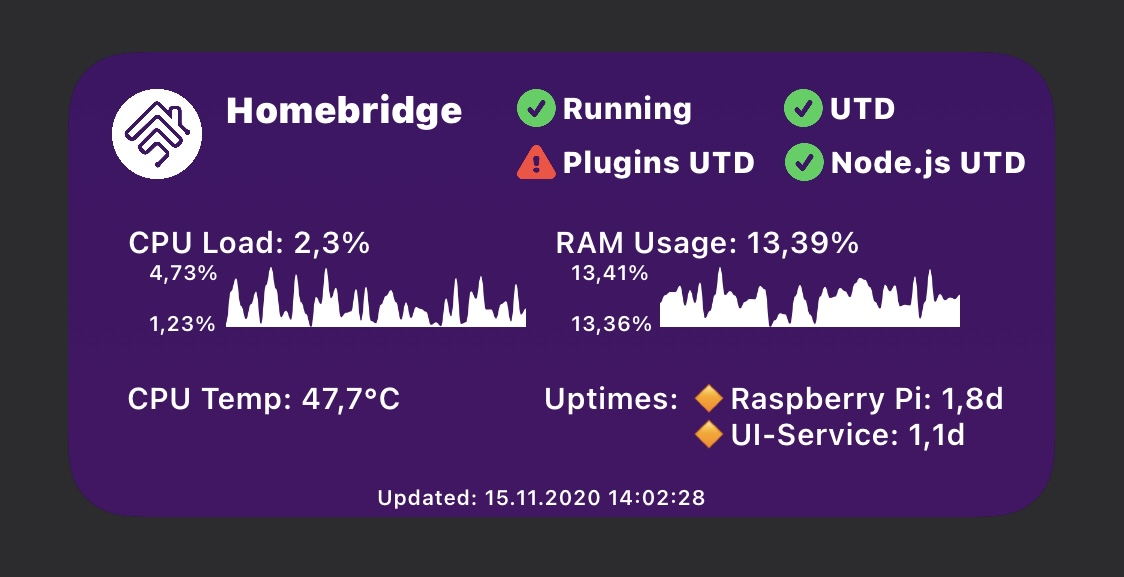
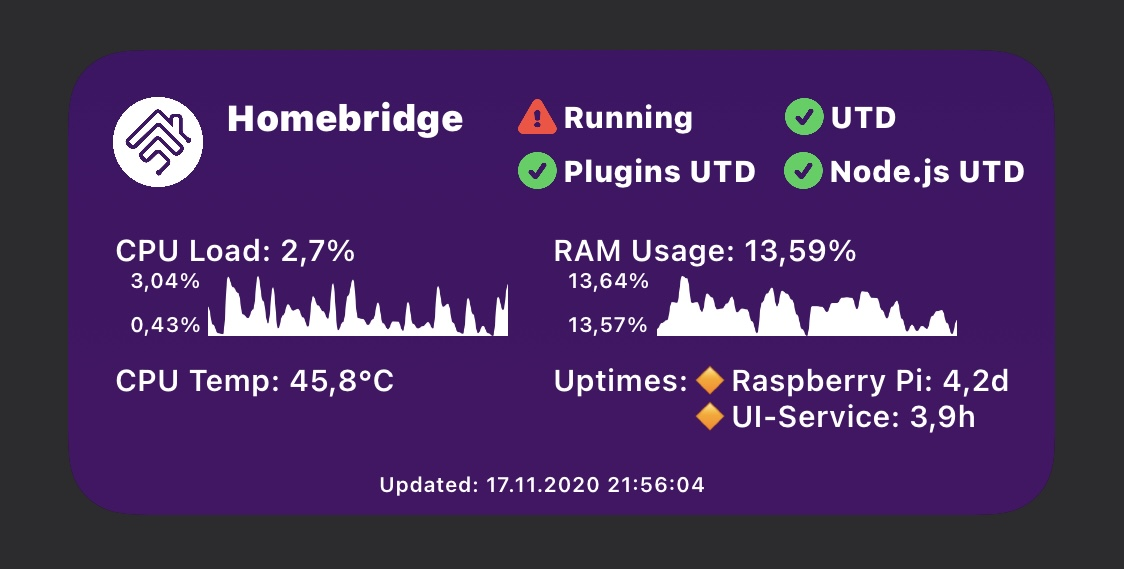
- complete overhaul of the section above the updated date and below the title for perfect alignment (now only using stacks and spacers) - only updated one picture (the main pic on top of readme) - no functionality changed

diff --git a/homebridgeStatusWidget.js b/homebridgeStatusWidget.js
@@ -153,7 +153,7 @@ async function createWidget() {
     // Widget background color
     if (bgColorMode === 'BLACK') {
         widget.backgroundGradient = blackBgGradient;
-    } if (bgColorMode === 'BLUE_TO_RED') {
+    } else if (bgColorMode === 'BLUE_TO_RED') {
         widget.backgroundGradient = blueToRedBgGradient;
     } else {
         widget.backgroundGradient = purpleBgGradient;
@@ -190,7 +190,7 @@ async function createWidget() {
     let cpuData = await fetchData(token, cpuUrl());
     let ramData = await fetchData(token, ramUrl());
     let usedRamText = await getUsedRamString(ramData);
-    let uptimeText = await getUptimeString(token);
+    let uptimesArray = await getUptimesArray(token);
 
     // STATUS PANEL IN THE HEADER ///////////////////
     let statusInfo = titleStack.addStack();
@@ -213,91 +213,124 @@ async function createWidget() {
 
     widget.addSpacer(10);
 
-    // CHART STACK START //////////////////////
     if (cpuData && ramData) {
-        let textStack = widget.addStack();
-        textStack.addSpacer(2);
-        let cpuLoadAndRamText = textStack.addText('   CPU Load: ' + getAsRoundedString(cpuData.currentLoad, 1) + '%                      RAM Usage: ' + usedRamText + '%');
-        cpuLoadAndRamText.font = infoFont;
-        cpuLoadAndRamText.textColor = fontColorWhite;
+        let mainColumns = widget.addStack();
+        mainColumns.size = new Size(maxLineWidth, 70);
+        mainColumns.addSpacer(1);
 
-        let chartStack = widget.addStack();
-        chartStack.size = new Size(maxLineWidth, 30);
+        // FIRST COLUMN //////////////////////
+        let firstColumn = mainColumns.addStack();
+        firstColumn.layoutVertically();
+        let cpuLoadTitle = firstColumn.addText('CPU Load: ' + getAsRoundedString(cpuData.currentLoad, 1) + '%');
+        cpuLoadTitle.font = infoFont;
+        cpuLoadTitle.textColor = fontColorWhite;
 
-        let minMaxCpuLoadText = chartStack.addText(getMaxString(cpuData.cpuLoadHistory, 2) + '%\n\n' + getMinString(cpuData.cpuLoadHistory, 2) + '%');
-        minMaxCpuLoadText.size = new Size(20, 10);
-        minMaxCpuLoadText.font = chartAxisFont;
-        minMaxCpuLoadText.textColor = fontColorWhite;
-        chartStack.addSpacer(2);
+        let cpuChartStack = firstColumn.addStack();
+        cpuChartStack.addSpacer(5);
+        let minMaxCpuLoadTextStack = cpuChartStack.addStack();
+        minMaxCpuLoadTextStack.layoutVertically();
+
+        let maxCpuText = minMaxCpuLoadTextStack.addText(getMaxString(cpuData.cpuLoadHistory, 2) + '%');
+        maxCpuText.font = chartAxisFont;
+        maxCpuText.textColor = fontColorWhite;
+        minMaxCpuLoadTextStack.addSpacer(6);
+        let minCpuText = minMaxCpuLoadTextStack.addText(getMinString(cpuData.cpuLoadHistory, 2) + '%');
+        minCpuText.font = chartAxisFont;
+        minCpuText.textColor = fontColorWhite;
+        minMaxCpuLoadTextStack.addSpacer(6);
+
+        cpuChartStack.addSpacer(2);
+
         let cpuLoadChart = new LineChart(500, 100, cpuData.cpuLoadHistory).configure((ctx, path) => {
             ctx.opaque = false;
             ctx.setFillColor(chartColor);
             ctx.addPath(path);
             ctx.fillPath(path);
         }).getImage();
-        let cpuLoadChartImage = chartStack.addImage(cpuLoadChart);
+        let cpuLoadChartImage = cpuChartStack.addImage(cpuLoadChart);
         cpuLoadChartImage.imageSize = new Size(100, 25);
 
-        chartStack.addSpacer(15);
+        firstColumn.addSpacer(2);
 
-        let minMaxRamUsageText = chartStack.addText(getMaxString(ramData.memoryUsageHistory, 2) + '%\n\n' + getMinString(ramData.memoryUsageHistory, 2) + '%');
-        minMaxRamUsageText.size = new Size(20, 10);
-        minMaxRamUsageText.font = chartAxisFont;
-        minMaxRamUsageText.textColor = fontColorWhite;
+        let temperatureString = getTemperatureString(cpuData?.cpuTemperature.main);
+        if (temperatureString !== 'unknown') {
+            let cpuTempText = firstColumn.addText('CPU Temp: ' + temperatureString);
+            cpuTempText.font = infoFont;
+            cpuTempText.size = new Size(150, 30);
+            cpuTempText.textColor = fontColorWhite;
+        }
+        // FIRST COLUMN END //////////////////////
 
-        chartStack.addSpacer(2);
+        mainColumns.addSpacer(15);
+
+        // SECOND COLUMN //////////////////////
+        let secondColumn = mainColumns.addStack();
+        secondColumn.layoutVertically();
+        let ramUsageTitle = secondColumn.addText('RAM Usage: ' + usedRamText + '%');
+        ramUsageTitle.font = infoFont;
+        ramUsageTitle.textColor = fontColorWhite;
+
+        let ramChartStack = secondColumn.addStack();
+        ramChartStack.addSpacer(5);
+        let minMaxRamUsageTextStack = ramChartStack.addStack();
+        minMaxRamUsageTextStack.layoutVertically();
+
+        let maxRamText = minMaxRamUsageTextStack.addText(getMaxString(ramData.memoryUsageHistory, 2) + '%');
+        maxRamText.font = chartAxisFont;
+        maxRamText.textColor = fontColorWhite;
+        minMaxRamUsageTextStack.addSpacer(6);
+        let minRamText = minMaxRamUsageTextStack.addText(getMinString(ramData.memoryUsageHistory, 2) + '%');
+        minRamText.font = chartAxisFont;
+        minRamText.textColor = fontColorWhite;
+        minMaxRamUsageTextStack.addSpacer(6);
+
+        ramChartStack.addSpacer(2);
+
         let ramUsageChart = new LineChart(500, 100, ramData.memoryUsageHistory).configure((ctx, path) => {
             ctx.opaque = false;
             ctx.setFillColor(chartColor);
             ctx.addPath(path);
             ctx.fillPath(path);
         }).getImage();
-        let ramUsageChartImage = chartStack.addImage(ramUsageChart);
+        let ramUsageChartImage = ramChartStack.addImage(ramUsageChart);
         ramUsageChartImage.imageSize = new Size(100, 25);
-        chartStack.addSpacer(5);
+
+        secondColumn.addSpacer(2);
+
+        if (uptimesArray) {
+            let uptimesStack = secondColumn.addStack();
+
+            let upStack = uptimesStack.addStack();
+            let uptimesTitleText = upStack.addText('Uptimes:');
+            uptimesTitleText.font = infoFont;
+            uptimesTitleText.textColor = fontColorWhite;
+
+            let vertPointsStack = upStack.addStack();
+            vertPointsStack.layoutVertically();
+            let firstBullet = vertPointsStack.addText(bulletPointIcon + systemGuiName + ': ' + uptimesArray[0]);
+            firstBullet.font = infoFont;
+            firstBullet.textColor = fontColorWhite;
+
+            let secondBullet = vertPointsStack.addText(bulletPointIcon + 'UI-Service: ' + uptimesArray[1]);
+            secondBullet.font = infoFont;
+            secondBullet.textColor = fontColorWhite;
+        }
+        // SECOND COLUMN END//////////////////////
+
+        widget.addSpacer(10);
+
+        // BOTTOM UPDATED TEXT //////////////////////
+        let updatedAt = widget.addText('Updated: ' + timeFormatter.string(new Date()));
+        updatedAt.font = updatedAtFont;
+        updatedAt.textColor = fontColorWhite;
+        updatedAt.centerAlignText();
+        // BOTTOM UPDATED TEXT END //////////////////
+
+        if (notificationEnabled) {
+            handleNotifications(fm, hbStatus, hbUpToDate, pluginsUpToDate, nodeJsUpToDate);
+        }
+        return widget;
     }
-    // CHART STACK END //////////////////////
-
-    widget.addSpacer(10);
-
-    // LOWER PART //////////////////////
-    let row3Stack = widget.addStack();
-    row3Stack.size = new Size(maxLineWidth, 30);
-
-    let temperatureString = getTemperatureString(cpuData?.cpuTemperature.main);
-    if (temperatureString !== 'unknown') {
-        row3Stack.addSpacer(5);
-        let cpuTempText = row3Stack.addText('CPU Temp: ' + temperatureString);
-        cpuTempText.font = infoFont;
-        cpuTempText.size = new Size(150, 30);
-        cpuTempText.textColor = fontColorWhite;
-        row3Stack.addSpacer(40);
-    }
-
-    let uptimeTitleTextRef = row3Stack.addText('   Uptimes: ');
-    uptimeTitleTextRef.font = infoFont;
-    uptimeTitleTextRef.textColor = fontColorWhite;
-
-    if (uptimeText) {
-        let uptimeTextRef = row3Stack.addText(uptimeText);
-        uptimeTextRef.font = infoFont;
-        uptimeTextRef.textColor = fontColorWhite;
-    }
-    // LOWER PART END //////////////////////
-
-    widget.addSpacer(5);
-
-    // BOTTOM UPDATED TEXT //////////////////////
-    let updatedAt = widget.addText('Updated: ' + timeFormatter.string(new Date()));
-    updatedAt.font = updatedAtFont;
-    updatedAt.textColor = fontColorWhite;
-    updatedAt.centerAlignText();
-    // BOTTOM UPDATED TEXT END //////////////////
-
-    if (notificationEnabled) {
-        handleNotifications(fm, hbStatus, hbUpToDate, pluginsUpToDate, nodeJsUpToDate);
-    }
-    return widget;
 }
 
 function useCredentialsFromWidgetParameter(givenParameter) {
@@ -408,15 +441,14 @@ async function getUsedRamString(ramData) {
     return getAsRoundedString(100 - 100 * ramData.mem.available / ramData.mem.total, 2);
 }
 
-async function getUptimeString(token) {
+async function getUptimesArray(token) {
     const uptimeData = await fetchData(token, uptimeUrl());
-    if (uptimeData === undefined) return;
-    let serverTime = uptimeData.time.uptime;
-    let processUptime = uptimeData.processUptime;
-    return bulletPointIcon + systemGuiName + ': ' + formatMinutes(serverTime) + '\n' + bulletPointIcon + 'UI-Service: ' + formatMinutes(processUptime);
+    if (uptimeData === undefined) return undefined;
+
+    return [formatSeconds(uptimeData.time.uptime), formatSeconds(uptimeData.processUptime)];
 }
 
-function formatMinutes(value) {
+function formatSeconds(value) {
     if (value > 60 * 60 * 24) {
         return getAsRoundedString(value / 60 / 60 / 24, 1) + 'd';
     } else if (value > 60 * 60) {
@@ -618,7 +650,7 @@ function scheduleNotification(text) {
     let not = new Notification();
     not.title = 'Homebridge Status changed:'
     not.body = text;
-    not.addAction('Show me!', hbServiceMachineBaseUrl, false)
+    not.addAction('Show me!', hbServiceMachineBaseUrl, false);
     not.sound = 'event';
     not.schedule();
 }

diff --git a/CHANGELOG.md b/CHANGELOG.md
@@ -1,5 +1,10 @@
 I try to list the changes i make in this changelog:
 
+#17.11.2020 22:08
+- complete overhaul of the section above the updated date and below the title for perfect alignment (now only using stacks and spacers)
+- only updated one picture (the main pic on top of readme)
+- no functionality changed
+
 #17.11.2020 20:31
 - just added a new background color BLUE_TO_RED
 
